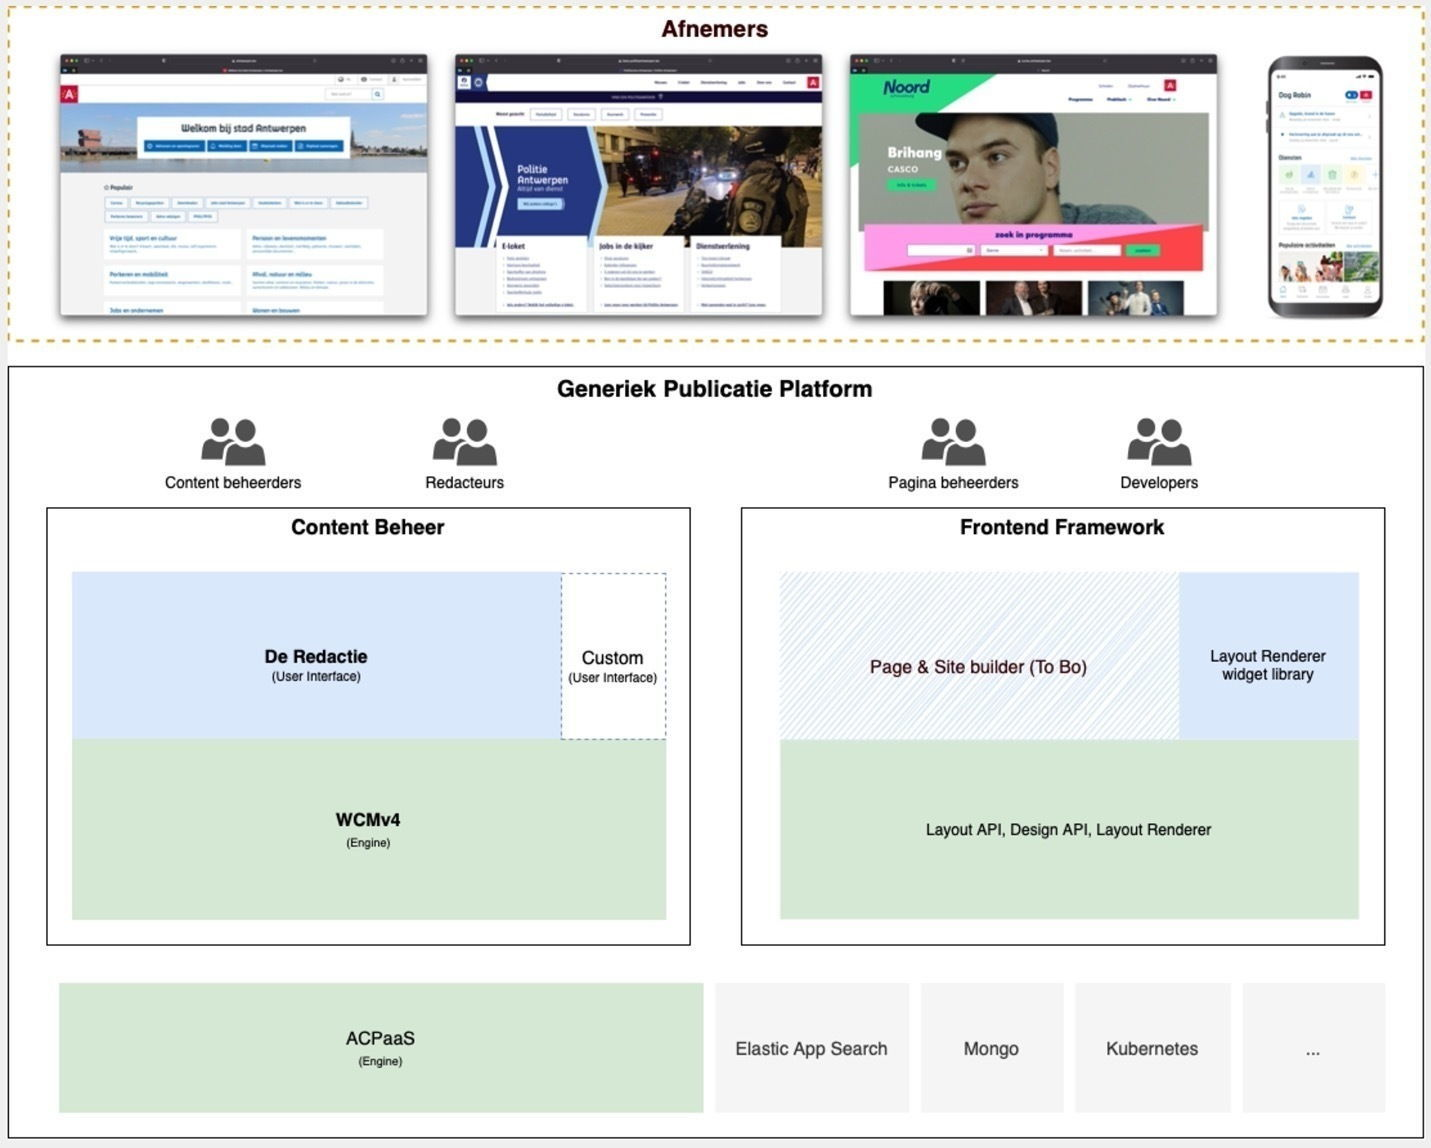
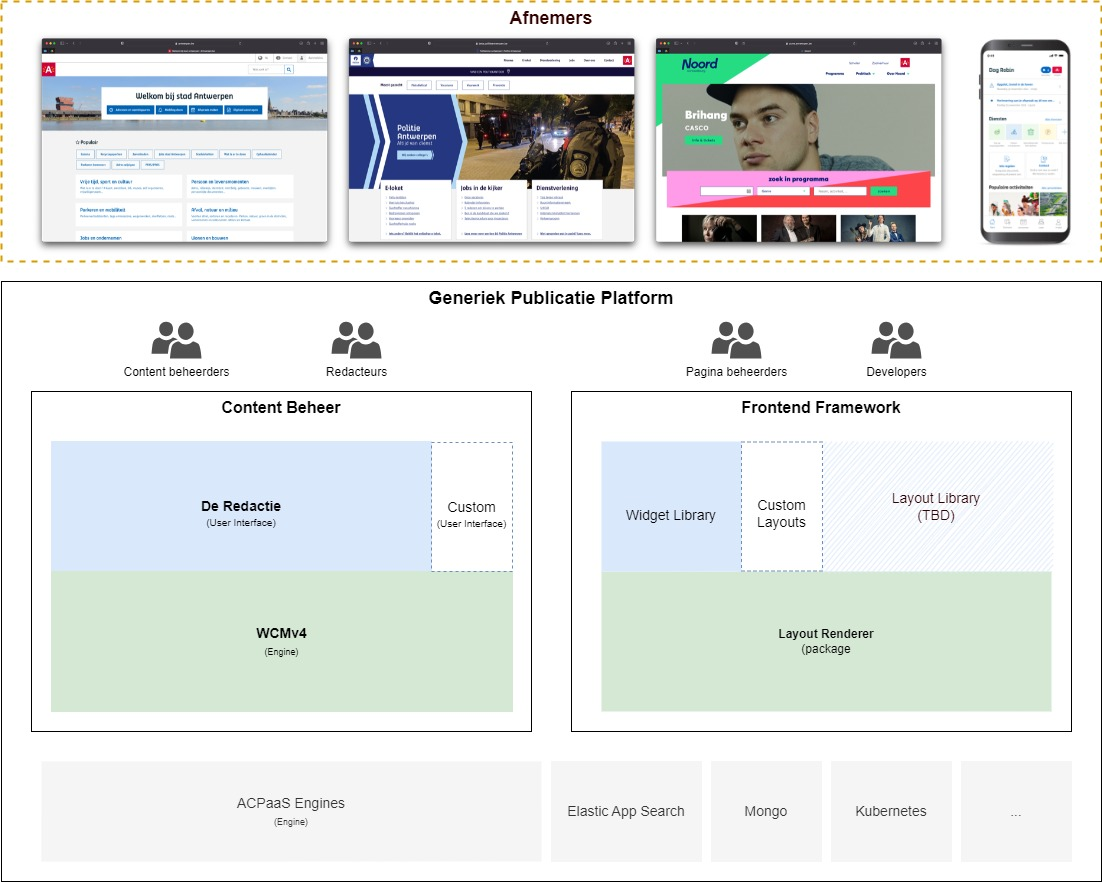
update high level GPubP info

diff --git a/docs/common/content/intro.md b/docs/common/content/intro.md
@@ -1,15 +1,16 @@
 # Introductie
-Het **G**eneriek **Pub**licatie **P**latform is een verzameling van *bouwstenen* en tools ter *ondersteuning* voor de bouw en uitbating van web platformen waaronder www.antwerpen.be, www.politieantwerpen.be, ... maar ook de Mijn Antwerpen App.
+
+Het **G**eneriek **Pub**licatie **P**latform is een verzameling van *bouwstenen* en tools ter *ondersteuning* voor de bouw en uitbating van web platformen waaronder <www.antwerpen.be>, <www.politieantwerpen.be>, ... maar ook de Mijn Antwerpen App.
 
 * De bouwstenen zijn er voor **afnemers** die websites willen *maken*. 
 * De tools voor hoofdzakelijk **redacteurs** die de websites willen *beheren*.
 
-
 ## Content versus Frontend
+
 Het GPubP bestaat conceptueel uit 2 delen, deze kan je appart of samen gebruiken:
 
 * In het **Content** luik vind je de [Redactie UI <i class="fa-solid fa-xs fa-arrow-up-right-from-square"></i>](https://redactie.antwerpen.be ':target="_blank"') alsook de [WCMv4 <i class="fa-solid fa-xs fa-arrow-up-right-from-square"></i>](https://acpaas.digipolis.be/nl/product/web-content-management-engine/web-content-management-engine-forms-module ':target="_blank"') terug. 
-* In het **Frontend** luik zal je de [Layout Renderer <i class="fa-solid fa-xs fa-arrow-up-right-from-square"></i>](https://layout-renderer-a.antwerpen.be/ ':target="_blank"')  en de Page & Site builder terugvinden.
+* In het **Frontend** luik zal je de [Layout Renderer <i class="fa-solid fa-xs fa-arrow-up-right-from-square"></i>](https://layout-renderer-a.antwerpen.be/ ':target="_blank"').
 
 ![GPubP high level](../assets/gpubp.jpg 'High level overzicht van het GPubP')
 

diff --git a/docs/README.md b/docs/README.md
@@ -1,15 +1,16 @@
 # Introductie
-Het **G**eneriek **Pub**licatie **P**latform is een verzameling van *bouwstenen* en tools ter *ondersteuning* voor de bouw en uitbating van web platformen waaronder www.antwerpen.be, www.politieantwerpen.be, ... maar ook de Mijn Antwerpen App.
+
+Het **G**eneriek **Pub**licatie **P**latform is een verzameling van *bouwstenen* en tools ter *ondersteuning* voor de bouw en uitbating van web platformen waaronder <www.antwerpen.be>, <www.politieantwerpen.be>, ... maar ook de Mijn Antwerpen App.
 
 * De bouwstenen zijn er voor **afnemers** die websites willen *maken*. 
 * De tools voor hoofdzakelijk **redacteurs** die de websites willen *beheren*.
 
-
 ## Content versus Frontend
+
 Het GPubP bestaat conceptueel uit 2 delen, deze kan je appart of samen gebruiken:
 
-* In het [Content](/common/content/content-beheer) luik vind je de Redactie alsook de WCMv4 terug. 
-* In het [Frontend](/common/content/frontend-beheer) luik zal je het layout rendering framework en de Page & Site builder terugvinden.
+* In het [Content](/common/content/content-beheer) luik vind je de Redactie alsook de WCMv4 terug.
+* In het [Frontend](/common/content/frontend-beheer) luik zal je het layout rendering framework terugvinden.
 
 ![GPubP high level](../common/assets/gpubp.jpg 'High level overzicht van het GPubP')
 
